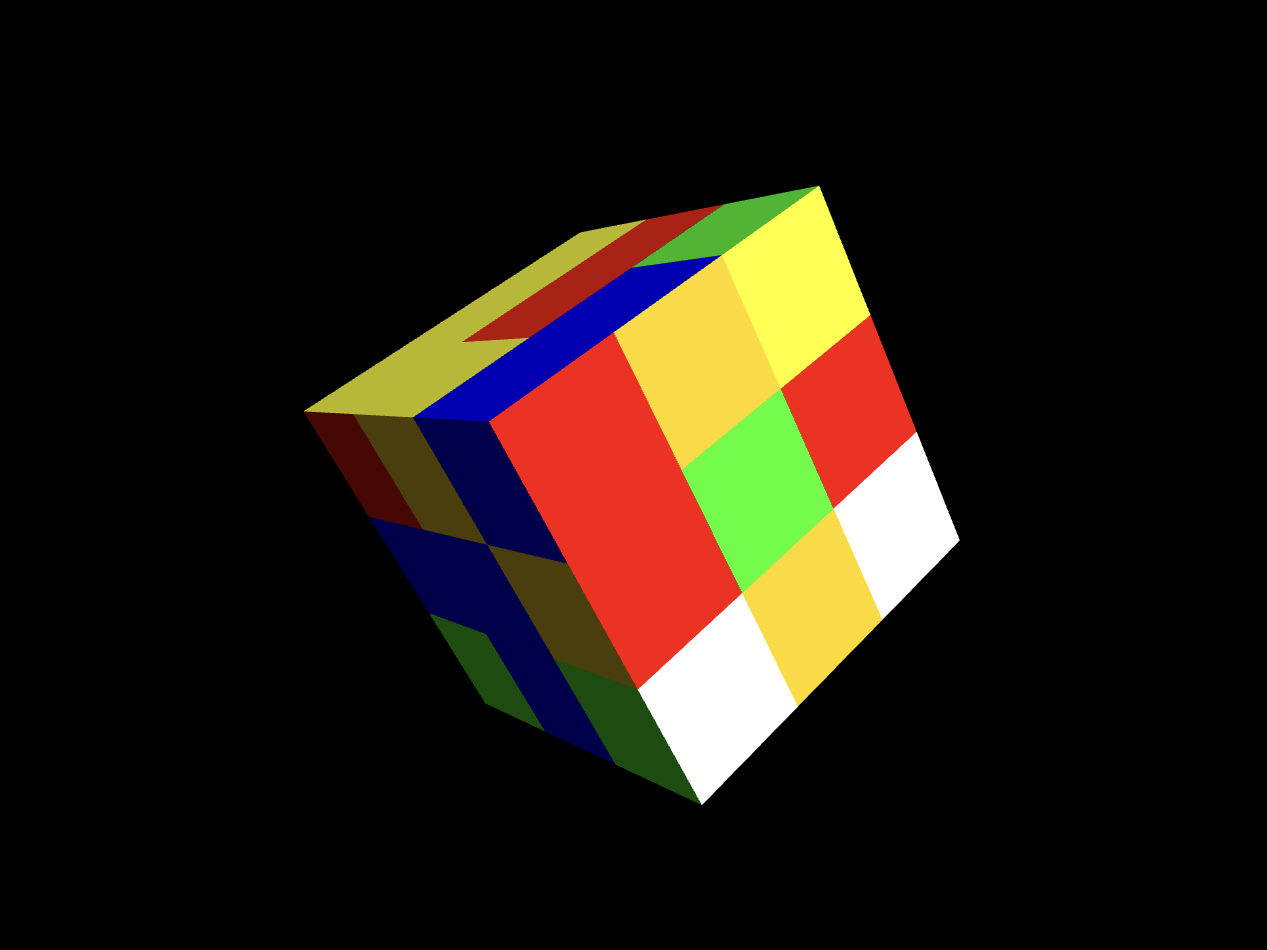
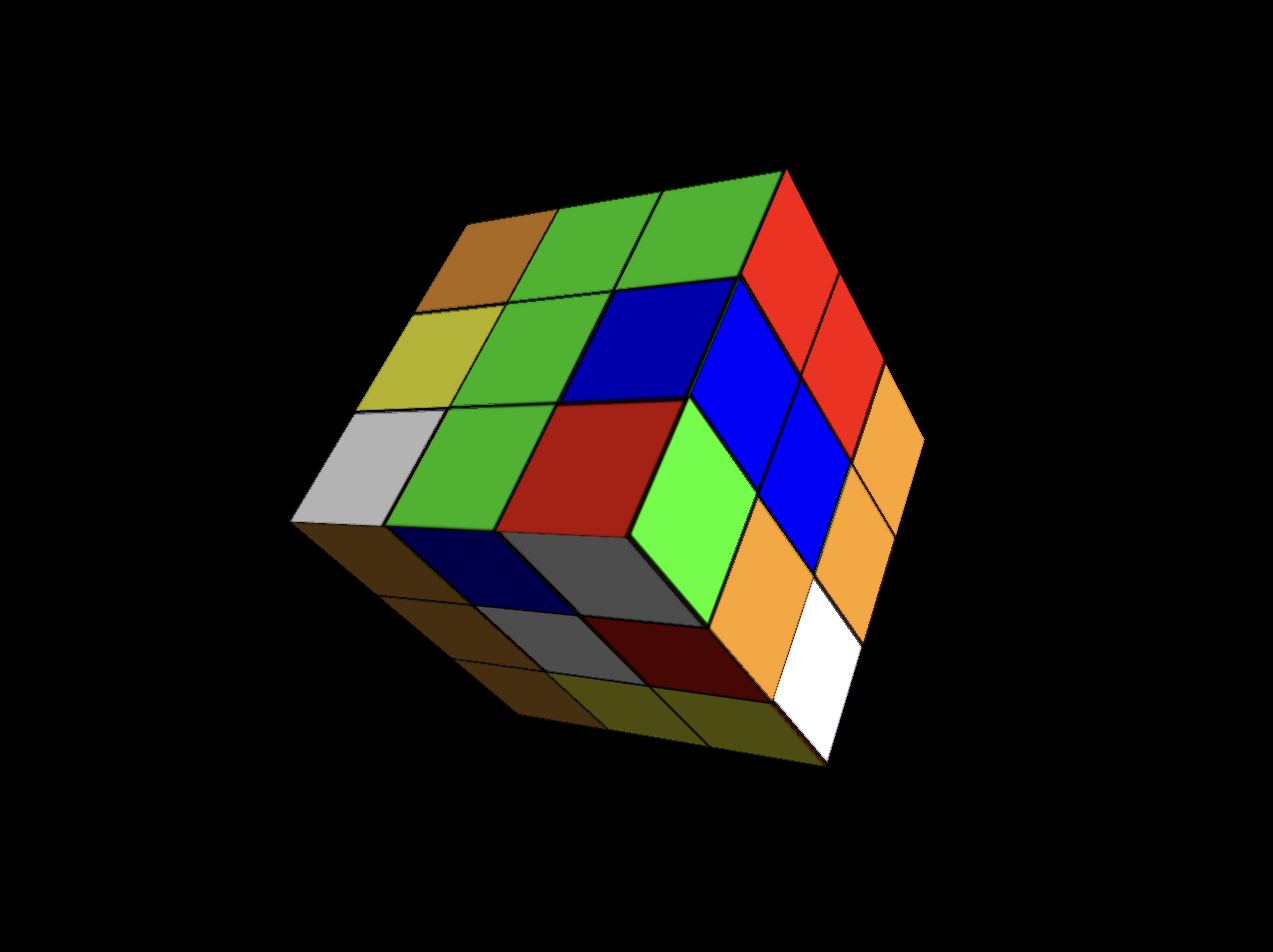
change method to using texture

Changed region(s): [[0.2155, 0.1832, 0.7695, 0.8547]]

diff --git a/src/data/data-texture.js b/src/data/data-texture.js
@@ -1,40 +1,65 @@
 const textureCoordinates = [
     // Front
-    0.0, 0.0, 1.0, 0.0, 1.0, 1.0, 0.0, 1.0, 0.0, 0.0, 1.0, 0.0, 1.0, 1.0, 0.0,
-    1.0, 0.0, 0.0, 1.0, 0.0, 1.0, 1.0, 0.0, 1.0, 0.0, 0.0, 1.0, 0.0, 1.0, 1.0,
-    0.0, 1.0, 0.0, 0.0, 1.0, 0.0, 1.0, 1.0, 0.0, 1.0, 0.0, 0.0, 1.0, 0.0, 1.0,
-    1.0, 0.0, 1.0, 0.0, 0.0, 1.0, 0.0, 1.0, 1.0, 0.0, 1.0, 0.0, 0.0, 1.0, 0.0,
-    1.0, 1.0, 0.0, 1.0, 0.0, 0.0, 1.0, 0.0, 1.0, 1.0, 0.0, 1.0,
+ // 左下、       右下、       上右、　      上左
+    0.33, 0.00, 0.66, 0.00, 0.66, 0.33, 0.33, 0.33,
+    0.33, 0.00, 0.66, 0.00, 0.66, 0.33, 0.33, 0.33,
+    0.00, 0.00, 0.33, 0.00, 0.33, 0.33, 0.00, 0.33,
+    0.66, 0.00, 1.00, 0.00, 1.00, 0.33, 0.66, 0.33,
+    0.33, 0.00, 0.66, 0.00, 0.66, 0.33, 0.33, 0.33,
+    0.00, 0.33, 0.33, 0.33, 0.33, 0.66, 0.00, 0.66,
+    0.33, 0.33, 0.66, 0.33, 0.66, 0.66, 0.33, 0.66,
+    0.33, 0.00, 0.66, 0.00, 0.66, 0.33, 0.33, 0.33,
+    0.66, 0.33, 1.00, 0.33, 1.00, 0.66, 0.66, 0.66,
     // Back
-    0.0, 0.0, 1.0, 0.0, 1.0, 1.0, 0.0, 1.0, 0.0, 0.0, 1.0, 0.0, 1.0, 1.0, 0.0,
-    1.0, 0.0, 0.0, 1.0, 0.0, 1.0, 1.0, 0.0, 1.0, 0.0, 0.0, 1.0, 0.0, 1.0, 1.0,
-    0.0, 1.0, 0.0, 0.0, 1.0, 0.0, 1.0, 1.0, 0.0, 1.0, 0.0, 0.0, 1.0, 0.0, 1.0,
-    1.0, 0.0, 1.0, 0.0, 0.0, 1.0, 0.0, 1.0, 1.0, 0.0, 1.0, 0.0, 0.0, 1.0, 0.0,
-    1.0, 1.0, 0.0, 1.0, 0.0, 0.0, 1.0, 0.0, 1.0, 1.0, 0.0, 1.0,
+    0.66, 0.00, 1.00, 0.00, 1.00, 0.33, 0.66, 0.33,
+    0.66, 0.33, 1.00, 0.33, 1.00, 0.66, 0.66, 0.66,
+    0.00, 0.33, 0.33, 0.33, 0.33, 0.66, 0.00, 0.66,
+    0.33, 0.00, 0.66, 0.00, 0.66, 0.33, 0.33, 0.33,
+    0.33, 0.00, 0.66, 0.00, 0.66, 0.33, 0.33, 0.33,
+    0.33, 0.33, 0.66, 0.33, 0.66, 0.66, 0.33, 0.66,
+    0.66, 0.00, 1.00, 0.00, 1.00, 0.33, 0.66, 0.33,
+    0.66, 0.33, 1.00, 0.33, 1.00, 0.66, 0.66, 0.66,
+    0.00, 0.00, 0.33, 0.00, 0.33, 0.33, 0.00, 0.33,
     // Top
-    0.0, 0.0, 1.0, 0.0, 1.0, 1.0, 0.0, 1.0, 0.0, 0.0, 1.0, 0.0, 1.0, 1.0, 0.0,
-    1.0, 0.0, 0.0, 1.0, 0.0, 1.0, 1.0, 0.0, 1.0, 0.0, 0.0, 1.0, 0.0, 1.0, 1.0,
-    0.0, 1.0, 0.0, 0.0, 1.0, 0.0, 1.0, 1.0, 0.0, 1.0, 0.0, 0.0, 1.0, 0.0, 1.0,
-    1.0, 0.0, 1.0, 0.0, 0.0, 1.0, 0.0, 1.0, 1.0, 0.0, 1.0, 0.0, 0.0, 1.0, 0.0,
-    1.0, 1.0, 0.0, 1.0, 0.0, 0.0, 1.0, 0.0, 1.0, 1.0, 0.0, 1.0,
+    0.00, 0.00, 0.33, 0.00, 0.33, 0.33, 0.00, 0.33,
+    0.00, 0.33, 0.33, 0.33, 0.33, 0.66, 0.00, 0.66,
+    0.00, 0.33, 0.33, 0.33, 0.33, 0.66, 0.00, 0.66,
+    0.00, 0.00, 0.33, 0.00, 0.33, 0.33, 0.00, 0.33,
+    0.66, 0.33, 1.00, 0.33, 1.00, 0.66, 0.66, 0.66,
+    0.33, 0.33, 0.66, 0.33, 0.66, 0.66, 0.33, 0.66,
+    0.00, 0.00, 0.33, 0.00, 0.33, 0.33, 0.00, 0.33,
+    0.66, 0.00, 1.00, 0.00, 1.00, 0.33, 0.66, 0.33,
+    0.66, 0.33, 1.00, 0.33, 1.00, 0.66, 0.66, 0.66,
     // Bottom
-    0.0, 0.0, 1.0, 0.0, 1.0, 1.0, 0.0, 1.0, 0.0, 0.0, 1.0, 0.0, 1.0, 1.0, 0.0,
-    1.0, 0.0, 0.0, 1.0, 0.0, 1.0, 1.0, 0.0, 1.0, 0.0, 0.0, 1.0, 0.0, 1.0, 1.0,
-    0.0, 1.0, 0.0, 0.0, 1.0, 0.0, 1.0, 1.0, 0.0, 1.0, 0.0, 0.0, 1.0, 0.0, 1.0,
-    1.0, 0.0, 1.0, 0.0, 0.0, 1.0, 0.0, 1.0, 1.0, 0.0, 1.0, 0.0, 0.0, 1.0, 0.0,
-    1.0, 1.0, 0.0, 1.0, 0.0, 0.0, 1.0, 0.0, 1.0, 1.0, 0.0, 1.0,
+    0.66, 0.33, 1.00, 0.33, 1.00, 0.66, 0.66, 0.66,
+    0.66, 0.33, 1.00, 0.33, 1.00, 0.66, 0.66, 0.66,
+    0.00, 0.00, 0.33, 0.00, 0.33, 0.33, 0.00, 0.33,
+    0.33, 0.00, 0.66, 0.00, 0.66, 0.33, 0.33, 0.33,
+    0.33, 0.33, 0.66, 0.33, 0.66, 0.66, 0.33, 0.66,
+    0.00, 0.33, 0.33, 0.33, 0.33, 0.66, 0.00, 0.66,
+    0.33, 0.33, 0.66, 0.33, 0.66, 0.66, 0.33, 0.66,
+    0.66, 0.00, 1.00, 0.00, 1.00, 0.33, 0.66, 0.33,
+    0.00, 0.33, 0.33, 0.33, 0.33, 0.66, 0.00, 0.66,
     // Right
-    0.0, 0.0, 1.0, 0.0, 1.0, 1.0, 0.0, 1.0, 0.0, 0.0, 1.0, 0.0, 1.0, 1.0, 0.0,
-    1.0, 0.0, 0.0, 1.0, 0.0, 1.0, 1.0, 0.0, 1.0, 0.0, 0.0, 1.0, 0.0, 1.0, 1.0,
-    0.0, 1.0, 0.0, 0.0, 1.0, 0.0, 1.0, 1.0, 0.0, 1.0, 0.0, 0.0, 1.0, 0.0, 1.0,
-    1.0, 0.0, 1.0, 0.0, 0.0, 1.0, 0.0, 1.0, 1.0, 0.0, 1.0, 0.0, 0.0, 1.0, 0.0,
-    1.0, 1.0, 0.0, 1.0, 0.0, 0.0, 1.0, 0.0, 1.0, 1.0, 0.0, 1.0,
+    0.00, 0.33, 0.33, 0.33, 0.33, 0.66, 0.00, 0.66,
+    0.33, 0.33, 0.66, 0.33, 0.66, 0.66, 0.33, 0.66,
+    0.33, 0.00, 0.66, 0.00, 0.66, 0.33, 0.33, 0.33,
+    0.00, 0.33, 0.33, 0.33, 0.33, 0.66, 0.00, 0.66,
+    0.66, 0.33, 1.00, 0.33, 1.00, 0.66, 0.66, 0.66,
+    0.00, 0.33, 0.33, 0.33, 0.33, 0.66, 0.00, 0.66,
+    0.66, 0.00, 1.00, 0.00, 1.00, 0.33, 0.66, 0.33,
+    0.66, 0.00, 1.00, 0.00, 1.00, 0.33, 0.66, 0.33,
+    0.33, 0.33, 0.66, 0.33, 0.66, 0.66, 0.33, 0.66,
     // Left
-    0.0, 0.0, 1.0, 0.0, 1.0, 1.0, 0.0, 1.0, 0.0, 0.0, 1.0, 0.0, 1.0, 1.0, 0.0,
-    1.0, 0.0, 0.0, 1.0, 0.0, 1.0, 1.0, 0.0, 1.0, 0.0, 0.0, 1.0, 0.0, 1.0, 1.0,
-    0.0, 1.0, 0.0, 0.0, 1.0, 0.0, 1.0, 1.0, 0.0, 1.0, 0.0, 0.0, 1.0, 0.0, 1.0,
-    1.0, 0.0, 1.0, 0.0, 0.0, 1.0, 0.0, 1.0, 1.0, 0.0, 1.0, 0.0, 0.0, 1.0, 0.0,
-    1.0, 1.0, 0.0, 1.0, 0.0, 0.0, 1.0, 0.0, 1.0, 1.0, 0.0, 1.0,
+    0.66, 0.33, 1.00, 0.33, 1.00, 0.66, 0.66, 0.66,
+    0.00, 0.00, 0.33, 0.00, 0.33, 0.33, 0.00, 0.33,
+    0.00, 0.00, 0.33, 0.00, 0.33, 0.33, 0.00, 0.33,
+    0.00, 0.00, 0.33, 0.00, 0.33, 0.33, 0.00, 0.33,
+    0.66, 0.00, 1.00, 0.00, 1.00, 0.33, 0.66, 0.33,
+    0.33, 0.33, 0.66, 0.33, 0.66, 0.66, 0.33, 0.66,
+    0.33, 0.00, 0.66, 0.00, 0.66, 0.33, 0.33, 0.33,
+    0.66, 0.00, 1.00, 0.00, 1.00, 0.33, 0.66, 0.33,
+    0.33, 0.33, 0.66, 0.33, 0.66, 0.66, 0.33, 0.66
 ];
 
 export { textureCoordinates };

diff --git a/src/webgl-demo.js b/src/webgl-demo.js
@@ -32,31 +32,27 @@ function main() {
     const vsSource = `
         attribute vec4 aVertexPosition;
         attribute vec3 aVertexNormal;
-        attribute vec4 aVertexColor;
-        // attribute vec2 aTextureCoord;
-
+        attribute vec2 aTextureCoord;
+    
         uniform mat4 uNormalMatrix;
         uniform mat4 uModelViewMatrix;
         uniform mat4 uProjectionMatrix;
-        
-        varying lowp vec4 vColor;
-        // varying highp vec2 vTextureCoord;
+    
+        varying highp vec2 vTextureCoord;
         varying highp vec3 vLighting;
-
+    
         void main(void) {
         gl_Position = uProjectionMatrix * uModelViewMatrix * aVertexPosition;
-        // vTextureCoord = aTextureCoord;
-        vColor = aVertexColor;
-
-
+        vTextureCoord = aTextureCoord;
+    
         // Apply lighting effect
-
+    
         highp vec3 ambientLight = vec3(0.3, 0.3, 0.3);
         highp vec3 directionalLightColor = vec3(1, 1, 1);
         highp vec3 directionalVector = normalize(vec3(0.85, 0.8, 0.75));
-
+    
         highp vec4 transformedNormal = uNormalMatrix * vec4(aVertexNormal, 1.0);
-
+    
         highp float directional = max(dot(transformedNormal.xyz, directionalVector), 0.0);
         vLighting = ambientLight + (directionalLightColor * directional);
         }
@@ -65,14 +61,17 @@ function main() {
     // Fragment shader program
 
     const fsSource = `
-        varying lowp vec4 vColor;
+        varying highp vec2 vTextureCoord;
         varying highp vec3 vLighting;
-
+    
+        uniform sampler2D uSampler;
+    
         void main(void) {
-            gl_FragColor = vec4(vColor.rgb * vLighting, vColor.a);
+        highp vec4 texelColor = texture2D(uSampler, vTextureCoord);
+    
+        gl_FragColor = vec4(texelColor.rgb * vLighting, texelColor.a);
         }
-        `;
-
+    `;
     // Initialize a shader program; this is where all the lighting
     // for the vertices and so forth is established.
     const shaderProgram = initShaderProgram(gl, vsSource, fsSource);
@@ -81,28 +80,38 @@ function main() {
     // Look up which attributes our shader program is using
     // for aVertexPosition, aVertexColor and also
     // look up uniform locations.
-const programInfo = {
-  program: shaderProgram,
-  attribLocations: {
-    vertexPosition: gl.getAttribLocation(shaderProgram, "aVertexPosition"),
-    vertexNormal: gl.getAttribLocation(shaderProgram, "aVertexNormal"),
-    // textureCoord: gl.getAttribLocation(shaderProgram, "aTextureCoord"),
-    vertexColor: gl.getAttribLocation(shaderProgram, "aVertexColor"),
-  },
-  uniformLocations: {
-    projectionMatrix: gl.getUniformLocation(shaderProgram, "uProjectionMatrix"),
-    modelViewMatrix: gl.getUniformLocation(shaderProgram, "uModelViewMatrix"),
-    normalMatrix: gl.getUniformLocation(shaderProgram, "uNormalMatrix"),
-    uSampler: gl.getUniformLocation(shaderProgram, "uSampler"),
-  },
-};
+    const programInfo = {
+        program: shaderProgram,
+        attribLocations: {
+            vertexPosition: gl.getAttribLocation(
+                shaderProgram,
+                "aVertexPosition"
+            ),
+            vertexNormal: gl.getAttribLocation(shaderProgram, "aVertexNormal"),
+            textureCoord: gl.getAttribLocation(shaderProgram, "aTextureCoord"),
+            // vertexColor: gl.getAttribLocation(shaderProgram, "aVertexColor"),
+        },
+        uniformLocations: {
+            projectionMatrix: gl.getUniformLocation(
+                shaderProgram,
+                "uProjectionMatrix"
+            ),
+            modelViewMatrix: gl.getUniformLocation(
+                shaderProgram,
+                "uModelViewMatrix"
+            ),
+            normalMatrix: gl.getUniformLocation(shaderProgram, "uNormalMatrix"),
+            uSampler: gl.getUniformLocation(shaderProgram, "uSampler"),
+        },
+    };
 
     // Here's where we call the routine that builds all the
     // objects we'll be drawing.
     const buffers = initBuffers(gl);
 
     // Load texture
-    const texture = loadTexture(gl, "textures/cubetexture.png");
+    // const texture = loadTexture(gl, "textures/cubetexture.png");
+    const texture = loadTexture(gl, "textures/tiles.png");
     // Flip image pixels into the bottom-to-top order that WebGL expects.
     gl.pixelStorei(gl.UNPACK_FLIP_Y_WEBGL, true);
 

diff --git a/src/draw-scene.js b/src/draw-scene.js
@@ -64,13 +64,14 @@ function drawScene(gl, programInfo, buffers, texture, cubeRotation) {
     // buffer into the vertexPosition attribute.
     setPositionAttribute(gl, buffers, programInfo);
 
-    // Tell WebGL to use our program when drawing
-    setColorAttribute(gl, buffers, programInfo);
-    // setTextureAttribute(gl, buffers, programInfo);
+    setTextureAttribute(gl, buffers, programInfo);
 
     // Tell WebGL which indices to use to index the vertices
     gl.bindBuffer(gl.ELEMENT_ARRAY_BUFFER, buffers.indices);
+
     setNormalAttribute(gl, buffers, programInfo);
+
+    // Tell WebGL to use our program when drawing
     gl.useProgram(programInfo.program);
 
     // Set the shader uniforms
@@ -90,21 +91,19 @@ function drawScene(gl, programInfo, buffers, texture, cubeRotation) {
         normalMatrix
     );
 
-    // // Tell WebGL we want to affect texture unit 0
-    // gl.activeTexture(gl.TEXTURE0);
+    // Tell WebGL we want to affect texture unit 0
+    gl.activeTexture(gl.TEXTURE0);
 
-    // // Bind the texture to texture unit 0
-    // gl.bindTexture(gl.TEXTURE_2D, texture);
+    // Bind the texture to texture unit 0
+    gl.bindTexture(gl.TEXTURE_2D, texture);
 
-    // // Tell the shader we bound the texture to texture unit 0
-    // gl.uniform1i(programInfo.uniformLocations.uSampler, 0);
+    // Tell the shader we bound the texture to texture unit 0
+    gl.uniform1i(programInfo.uniformLocations.uSampler, 0);
 
     {
-        // const vertexCount = 6 * 6;
         const vertexCount = 6 * 9 * 6;
         const type = gl.UNSIGNED_SHORT;
         const offset = 0;
-        // gl.drawElements(gl.LINES, vertexCount, type, offset);
         gl.drawElements(gl.TRIANGLES, vertexCount, type, offset);
     }
 }

diff --git a/src/init-buffers.js b/src/init-buffers.js
@@ -14,8 +14,8 @@ function initBuffers(gl) {
     return {
         position: positionBuffer,
         normal: normalBuffer,
-        // textureCoord: textureCoordBuffer,
-        color: colorBuffer,
+        textureCoord: textureCoordBuffer,
+        // color: colorBuffer,
         indices: indexBuffer,
     };
 }
